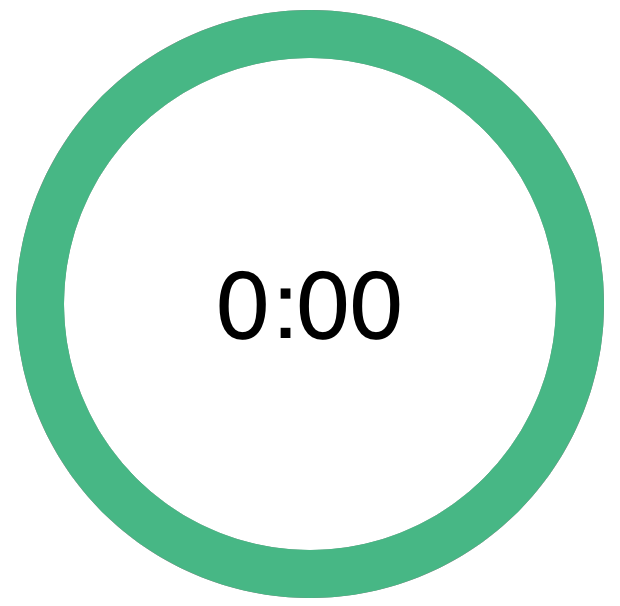
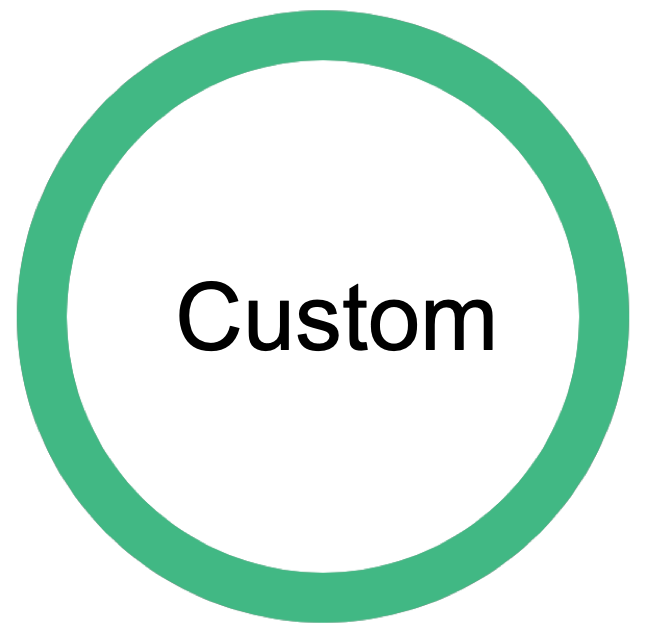
Simplified Timer Selection Page

Changed region(s): [[0.2758, 0.4455, 0.7661, 0.5644], [0.5516, 0.9802, 0.5823, 1.0]]

diff --git a/client/src/components/TimerSelection.jsx b/client/src/components/TimerSelection.jsx
@@ -31,7 +31,6 @@ const TimerSelection = (props) => {
     return (
         <div className='container'>
             <div className='select'>
-            <h3>20 mins</h3>
             <img src={Timer20} alt="20-min-Timer"/>
             <div className='action'>
             <Link to={props.path === '/timer/select/:taskIdx' ?  `/timer/timer20/${props.taskIdx}` : `/timer/timer20/`}><button>Go</button></Link> 
@@ -39,7 +38,6 @@ const TimerSelection = (props) => {
             </div>
             
             <div className='select'>
-            <h3>50 mins</h3>
             <img src={Timer50} alt="50-min-Timer"/>
             <div className='action'>
             <Link to={props.path === '/timer/select/:taskIdx' ?  `/timer/timer50/${props.taskIdx}` : `/timer/timer50/`}><button>Go</button></Link> 
@@ -48,7 +46,6 @@ const TimerSelection = (props) => {
 
             <div className='select'>
             <form onSubmit={onSubmitHandler}> 
-            <h3>Custom</h3>
             <img src={TimerCustom} alt="20-min-Timer"/>
             <div className='inputLabels'>
             <label>Hours </label>
